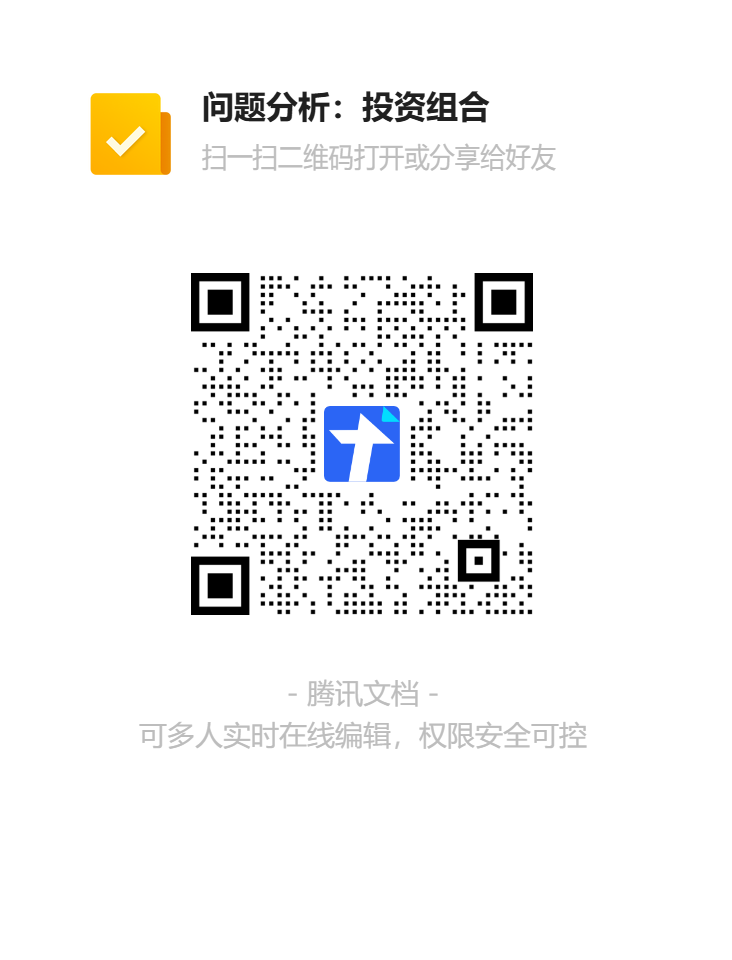
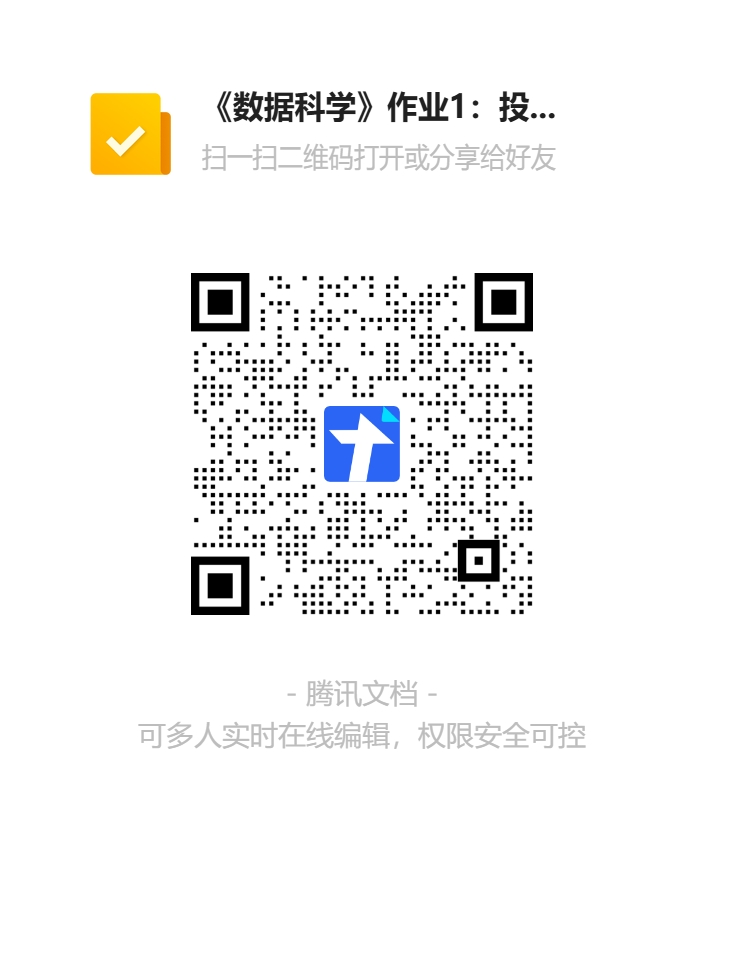
Problem1

diff --git a/Practices/Problem1.md b/Practices/Problem1.md
@@ -12,6 +12,6 @@
 3.	如果上例中每只股票的收益率和方差各不相同，你觉得如何制定投资决策呢？
 
 # 提交答案
-1. 填写 [在线表格](https://docs.qq.com/form/page/DYk5WZm1yREttTWRU)
+1. 填写 [在线表格](https://docs.qq.com/form/page/DYmRXdG92VXpqUVhQ)
 2. 或扫码
 ![Problem1-form](./img/Problem1-form.png) 

diff --git a/README.md b/README.md
@@ -11,6 +11,7 @@
 
 **作品提交：** 待定。
 
+
 # 教材
 * 教材名称：`Business Intelligence, Analytics, Data Science, And AI`, 5th Edition
 * 出版社链接：[Pearson](https://www.pearson.com/en-us/subject-catalog/p/business-intelligence-analytics-data-science-and-ai/P200000009781?view=educator)
